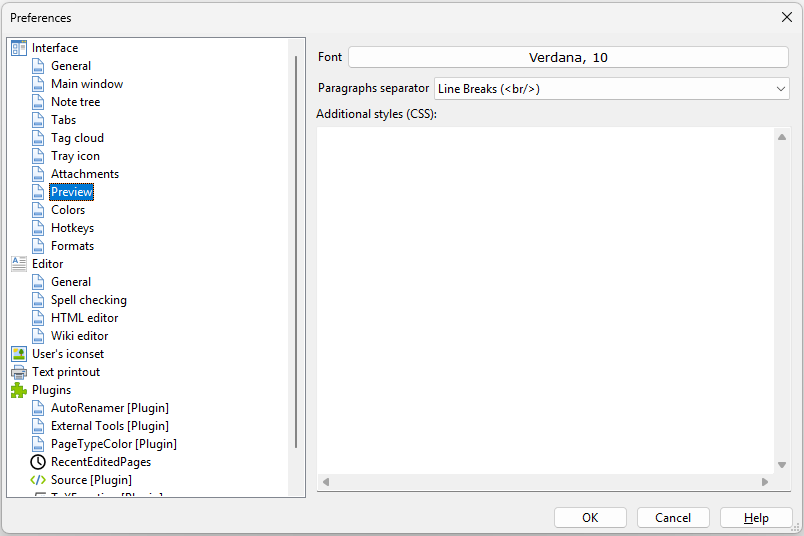
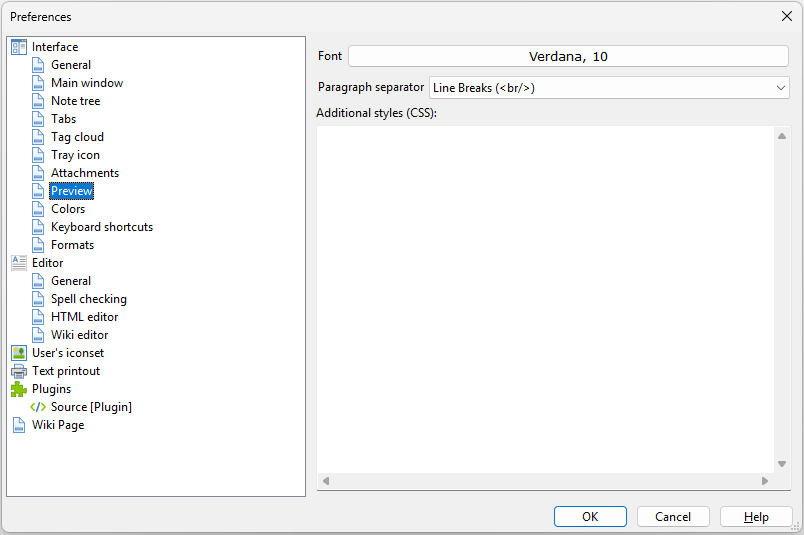
Update help

Changed region(s): [[0.0, 0.0, 0.995, 0.9271], [0.3731, 0.0598, 0.995, 0.2393], [0.4042, 0.0897, 0.4353, 0.1196]]

diff --git a/src/outwiker/data/help/help_ru/Preferences/Interface - Preview/__content.html b/src/outwiker/data/help/help_ru/Preferences/Interface - Preview/__content.html
@@ -12,18 +12,43 @@
 		}
 
[1 lines of base64/hex data omitted]
-		
[1 lines of base64/hex data omitted]
 	</style>
-	
+	<style>span.notice {
+	display: inline-block;
+	color: #333;
+	background-color: #e3f7fc;
+	border-radius: 1px;
+	padding: 0px 2px 0px 2px;
+	margin: 2px;
+	border:1px solid #8ed9f6;
+}
+</style>
+<style>span.code {
+	display: inline-block;
+	background: #FBFCD2;
+	font-family: monospace;
+	border: solid 1px #CCC;
+	padding: 0.2em;
+}
+</style>
+
 </head>
 
 <body>
-<h2 class="ow-wiki">Интерфейс - Просмотр</h2>
+<h1 class="ow-wiki">Интерфейс - Просмотр</h1>
 <br/>
 <div align="center"><img class="ow-image" src="__attach/outwiker_opt_preview.png"/></div><br/>
 <br/>
-Данный раздел отвечает за общий внешний вид <a class="ow-wiki ow-link-page" href="page://__7bd312fb-c3e4-4d9d-9267-cc394dbb9f20">HTML-страниц</a> и <a class="ow-wiki ow-link-page" href="page://__19866d72-8d95-4e2c-8df1-6df0bd8f06c0">викистраниц</a> в режиме просмотра. Здесь можно задать размер и начертание шрифта (группа параметров <b>Шрифт</b>), который будет использоваться на странице по умолчанию, а также добавить CSS-стили, которые будут вставлены во все страницы указанных типов типа.<br/>
+Данный раздел отвечает за внешний вид заметок для <a class="ow-wiki ow-link-page" href="page://__7bd312fb-c3e4-4d9d-9267-cc394dbb9f20">HTML-</a> и <a class="ow-wiki ow-link-page" href="page://__19866d72-8d95-4e2c-8df1-6df0bd8f06c0">викистраниц</a> в режиме просмотра. Некоторые <a class="ow-wiki ow-link-page" href="page://plugins">плагины</a> добавляют новый тип страниц, которые также имеют режим просмотра. Эти параметры распространяются также и на эти типы страниц.<br/>
 <br/>
-В поле ввода <b>Дополнительные стили (CSS)</b> можно ввести дополнительные стили CSS, которые будут добавлены к каждой странице (если тип страниц поддерживает данный параметр). Этот параметр предназначен для уверенных пользователей программы, которые разбираются в языке CSS и хотят настроить внешний вид страниц под себя, не создавая собственные <a class="ow-wiki ow-link-page" href="page://styles">стили страниц</a>.
+С помощью параметра <span class="notice">Шрифт</span> можно задать размер и начертание шрифта, который будет использоваться на странице по умолчанию.<br/>
+<br/>
+В поле ввода <span class="notice">Дополнительные стили (CSS)</span> можно ввести собственные стили CSS, которые будут добавлены к каждой странице (если тип страниц поддерживает данный параметр). Этот параметр предназначен для уверенных пользователей программы, которые разбираются в языке CSS и хотят настроить внешний вид страниц под себя, не создавая собственные <a class="ow-wiki ow-link-page" href="page://styles">стили страниц</a>. На этот случай парсер викистраниц добавляет множество классов CSS для различных элементов оформления в заметках, которые можно использовать для тонкой настройки внешнего вида.<br/>
+<br/>
+Если подключен <a class="ow-wiki ow-link-page" href="page://plugins">плагин</a> <a class="ow-wiki" href="https://jenyay.net/Outwiker/HtmlFormatter">HtmlFormatter</a>, то в этот раздел будет добавлена настройка <span class="notice">Разделитель абзацев</span>. Эта настройка позволяет переключаться между режимами оформления текстовых блоков, разделенных пустыми строками. С помощью выпадающего списка можно выбрать, каким образом будут формироваться отступы между блоками текста - с помощью тегов <span class="code">&lt;br&gt;</span> или с помощью обертывания их тегами <span class="code">&lt;p&gt;...&lt;/p&gt;</span>.<br/>
+<hr>
+<b>См. также:</b><ul class="ow-wiki"><li class="ow-wiki"><a class="ow-wiki ow-link-page" href="page://wiki-format-text">Форматирование текста</a></li><li class="ow-wiki"><a class="ow-wiki ow-link-page" href="page://textstyles">Стили текста</a></li>
+</ul>
 </body>
 </html>

diff --git a/src/outwiker/data/help/help_en/Application settings/Interface - Preview/__content.html b/src/outwiker/data/help/help_en/Application settings/Interface - Preview/__content.html
@@ -12,18 +12,43 @@
 		}
 
[1 lines of base64/hex data omitted]
-		
[1 lines of base64/hex data omitted]
 	</style>
-	
+	<style>span.notice {
+	display: inline-block;
+	color: #333;
+	background-color: #e3f7fc;
+	border-radius: 1px;
+	padding: 0px 2px 0px 2px;
+	margin: 2px;
+	border:1px solid #8ed9f6;
+}
+</style>
+<style>span.code {
+	display: inline-block;
+	background: #FBFCD2;
+	font-family: monospace;
+	border: solid 1px #CCC;
+	padding: 0.2em;
+}
+</style>
+
 </head>
 
 <body>
-<h2 class="ow-wiki">Interface - Preview</h2>
+<h1 class="ow-wiki">Interface - Preview</h1>
 <br/>
 <div align="center"><img class="ow-image" src="__attach/outwiker_opt_preview.png"/></div><br/>
 <br/>
-Controls of this section are responsible for the general look of <a class="ow-wiki ow-link-page" href="page://__0cc8f2c6-754c-4aa8-b118-561b930e9955">HTML pages</a> and <a class="ow-wiki ow-link-page" href="page://__dd8b23a1-6787-42bb-9b58-c78a656688e2">wiki pages</a> in preview mode. Here one can set the default font face and size (the <b>Font</b> button) as well as add custom CSS styles which will be used when rendering all notes of the corresponding type.<br/>
+This section controls the appearance of <a class="ow-wiki ow-link-page" href="page://__7bd312fb-c3e4-4d9d-9267-cc394dbb9f20">HTML</a> and <a class="ow-wiki ow-link-page" href="page://__19866d72-8d95-4e2c-8df1-6df0bd8f06c0">wiki pages</a> in preview mode. Some <a class="ow-wiki ow-link-page" href="page://plugins">plugins</a> add new page types that also feature a preview mode; these settings apply to those page types as well.<br/>
 <br/>
-The <b>Additional styles (CSS)</b> input field allows you to add new CSS code which will be added to each page (if the page type supports this option). This option is intended for advanced users of the program who know the CSS language and want to customize the appearance of the pages for themselves, without creating their own <a class="ow-wiki ow-link-page" href="page://styles">page styles</a>.
+The <span class="notice">Font</span> setting allows you to define the default font size and typeface used on the page.<br/>
+<br/>
+In the <span class="notice">Additional styles (CSS)</span> input field, you can enter your own CSS styles to be added to every page (provided the page type supports this parameter). This setting is intended for advanced users who are familiar with CSS and wish to customize the look of their pages without creating separate <a class="ow-wiki ow-link-page" href="page://styles">page styles</a>. For this purpose, the wiki page parser adds numerous CSS classes to various formatting elements within notes, which can be used for fine-tuning the appearance.<br/>
+<br/>
+If the <a class="ow-wiki" href="https://jenyay.net/Outwiker/HtmlFormatter">HtmlFormatter</a> <a class="ow-wiki ow-link-page" href="page://plugins">plugin</a> is enabled, a <span class="notice">Paragraph separator</span> setting will be added to this section. This setting allows you to switch between different formatting modes for text blocks separated by empty lines. Using the drop-down list, you can choose how spacing between text blocks is handled: by using <span class="code">&lt;br&gt;</span> tags or by wrapping blocks in <span class="code">&lt;p&gt;...&lt;/p&gt;</span> tags.<br/>
+<hr>
+<b>See also:</b><ul class="ow-wiki"><li class="ow-wiki"><a class="ow-wiki ow-link-page" href="page://wiki-format-text">Text Formating</a></li><li class="ow-wiki"><a class="ow-wiki ow-link-page" href="page://textstyles">Text styles</a></li>
+</ul>
 </body>
 </html>

diff --git a/src/outwiker/data/help/help_ru/Preferences/Interface - Colors/__content.html b/src/outwiker/data/help/help_ru/Preferences/Interface - Colors/__content.html
@@ -7,7 +7,7 @@
 
 	<style type='text/css'>
 		body, div, p, table {
-			font-size:10pt;
+			font-size:11pt;
 			font-family:Verdana;
 		}
 
